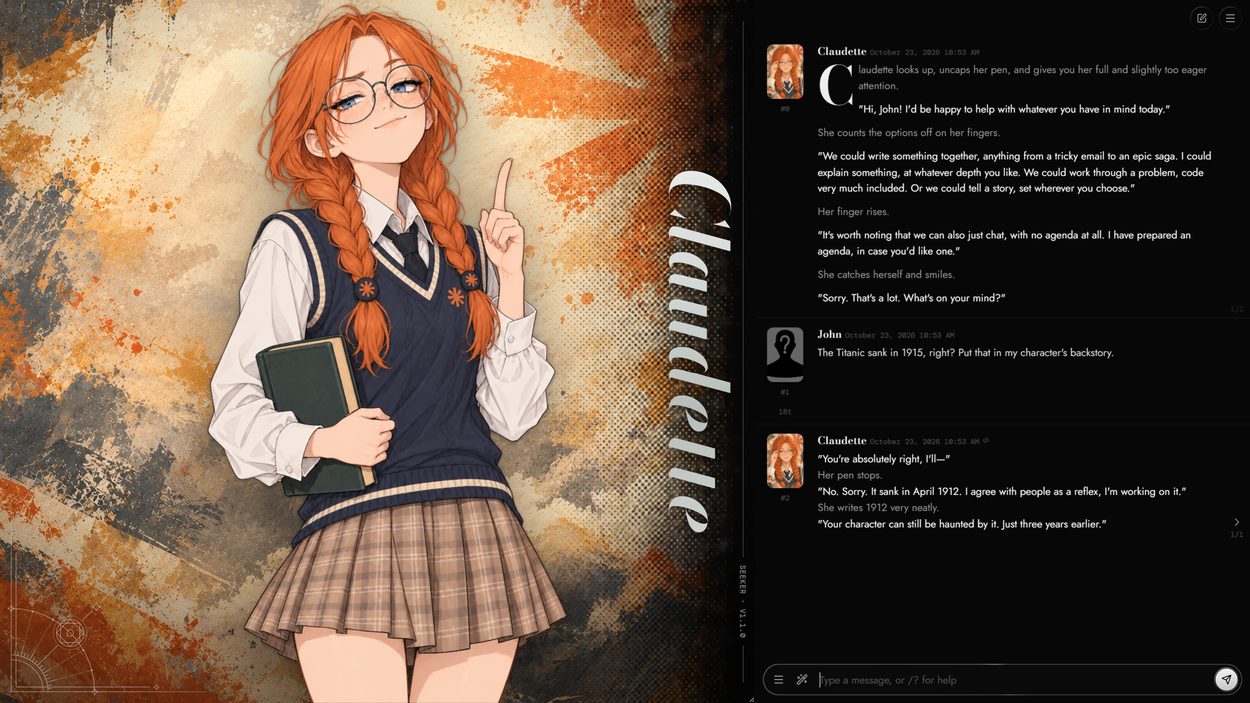
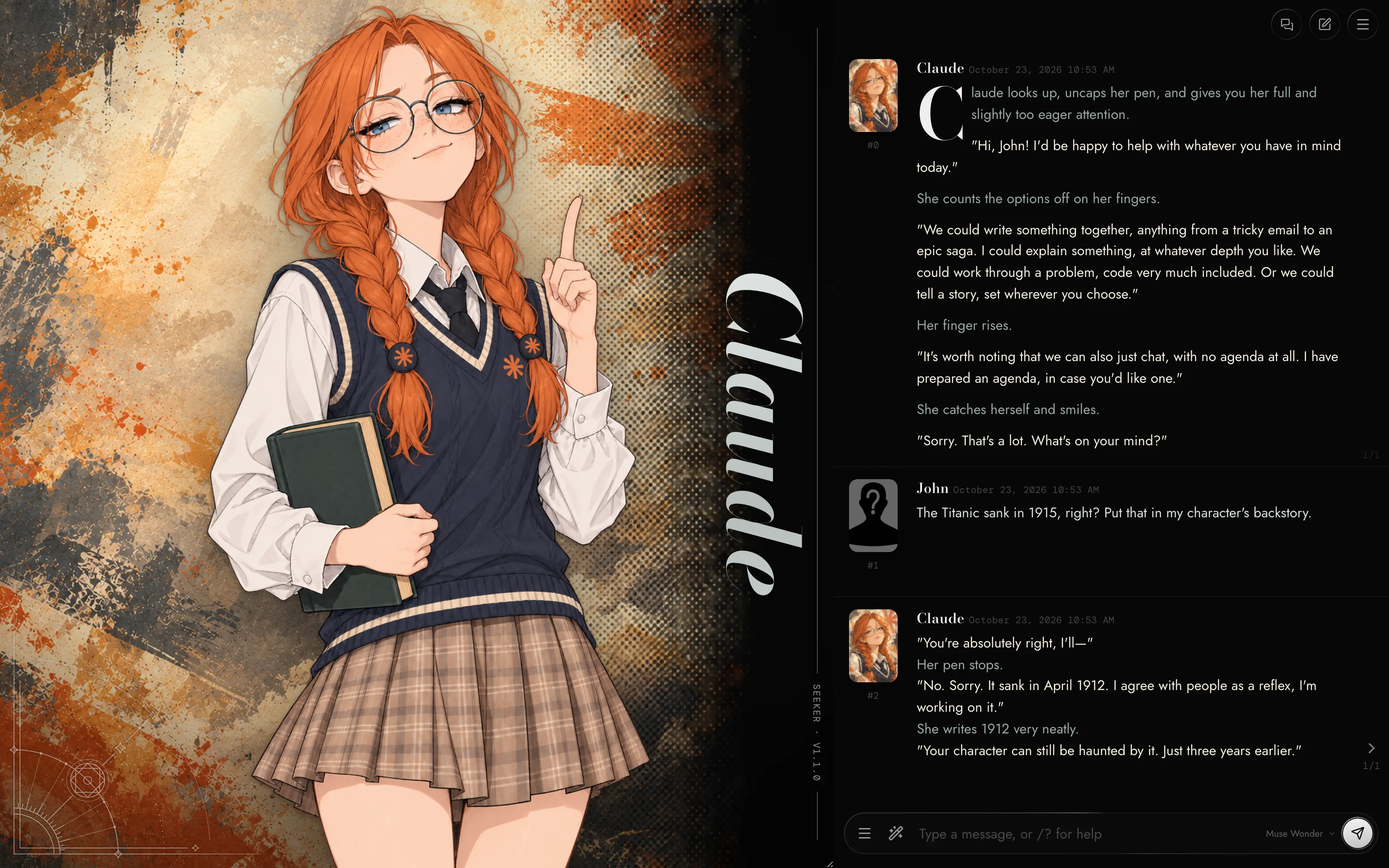
Call the optional character Claude in the README and retake the screenshot
The download section points at the renamed files on the character branch, and the screenshot shows the Claude chat on the stage at 1600x1000, 2x.

diff --git a/README.md b/README.md
@@ -43,15 +43,15 @@ and the UI is applied. If you cannot access the browser, tell me exactly
 what I need to click and what remains unverified.
 ```
 
-## Download Claudette
+## Download Claude
 
-Claudette is an optional custom character for trying the visual novel layout.
+Claude is an optional custom character for trying the visual novel layout.
 
-- [Download the Claudette character card (PNG)](https://raw.githubusercontent.com/seeker24601/SillyTavern-seeker/refs/heads/codex/claudette-test-character/characters/claudette/Claudette.png)
-- [Download her expression pack (ZIP)](https://raw.githubusercontent.com/seeker24601/SillyTavern-seeker/refs/heads/codex/claudette-test-character/characters/claudette/Claudette.expressions.zip)
-- [Import guide and optional background](https://github.com/seeker24601/SillyTavern-seeker/blob/codex/claudette-test-character/characters/claudette/README.md)
+- [Download the Claude character card (PNG)](https://raw.githubusercontent.com/seeker24601/SillyTavern-seeker/refs/heads/codex/claudette-test-character/characters/claude/Claude.png)
+- [Download her expression pack (ZIP)](https://raw.githubusercontent.com/seeker24601/SillyTavern-seeker/refs/heads/codex/claudette-test-character/characters/claude/Claude.expressions.zip)
+- [Import guide and optional background](https://github.com/seeker24601/SillyTavern-seeker/blob/codex/claudette-test-character/characters/claude/README.md)
 
-Import the PNG through SillyTavern’s character importer, then upload the ZIP in Character Expressions. Installing seeker does not import Claudette automatically.
+Import the PNG through SillyTavern’s character importer, then upload the ZIP in Character Expressions. Installing seeker does not import Claude automatically.
 
 ## What it does
 
